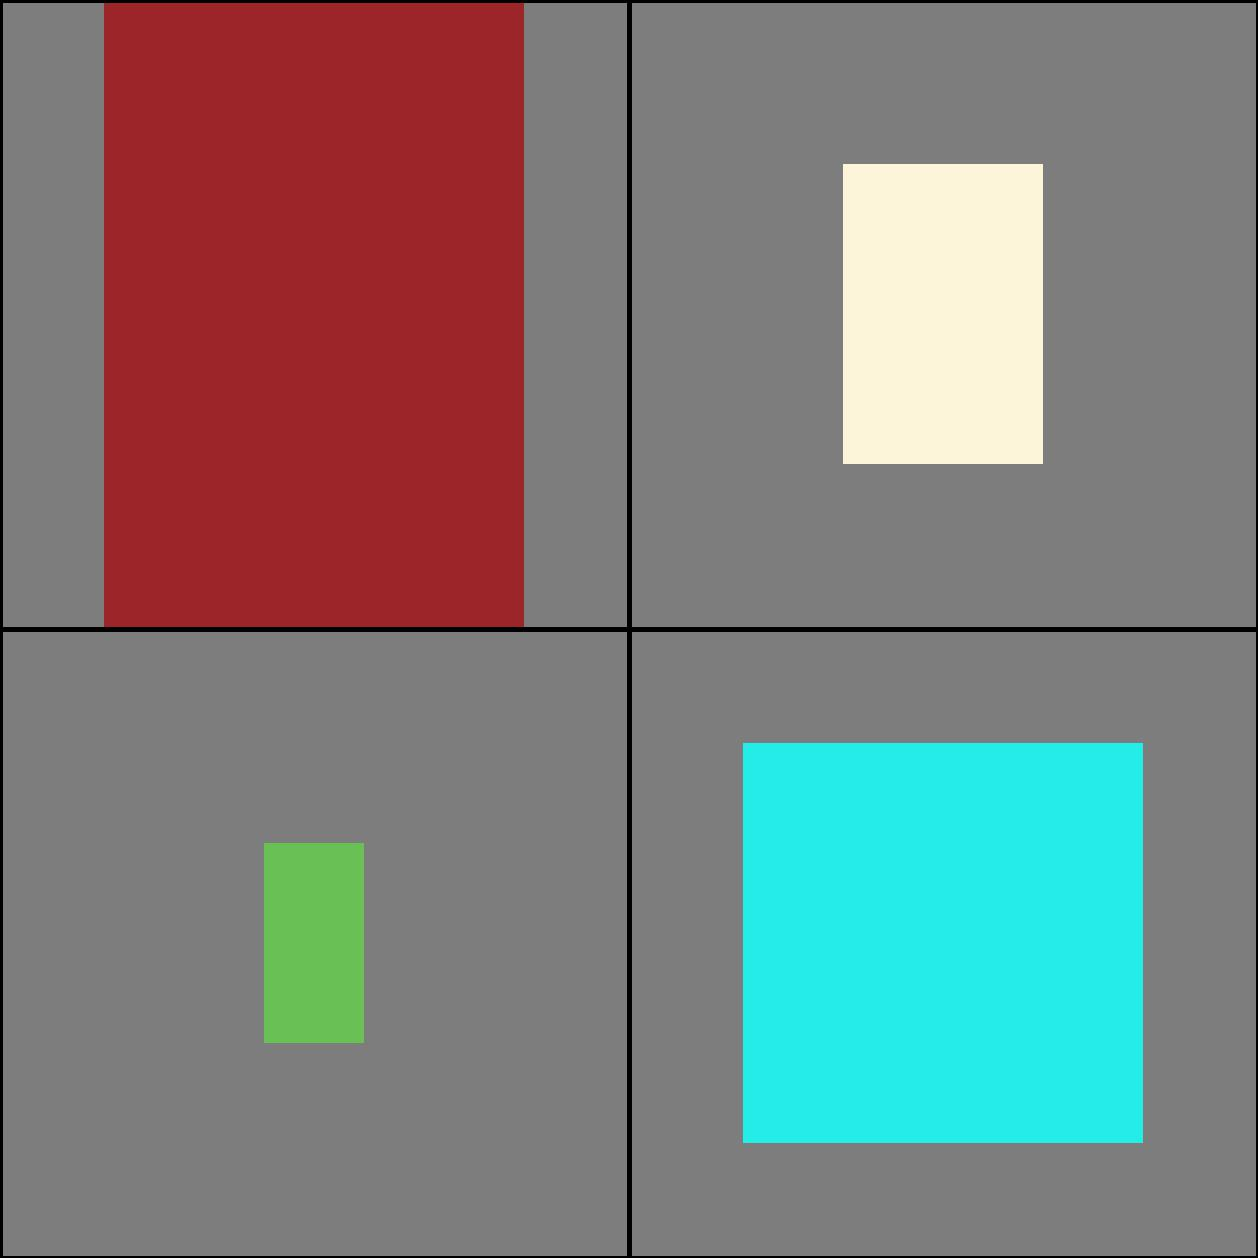
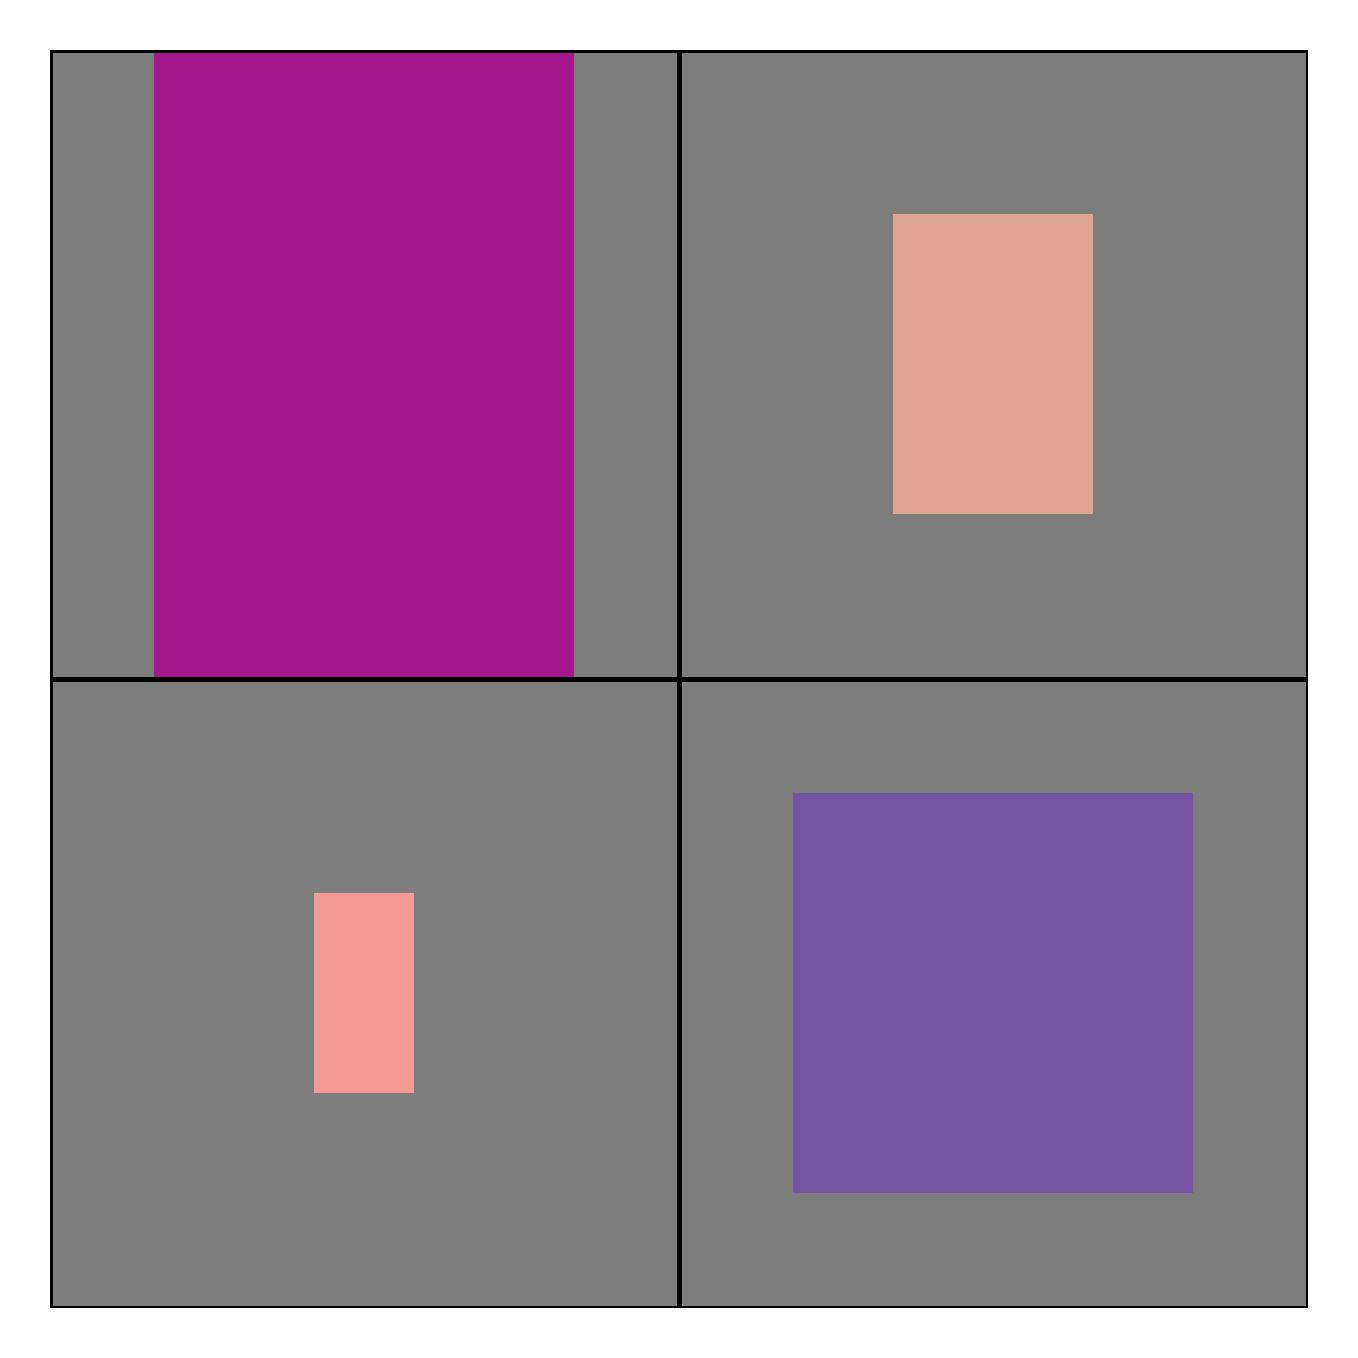
Add margins

diff --git a/app/image_grid.py b/app/image_grid.py
@@ -31,11 +31,13 @@ class ImageGrid:
         canvas_colour (string): Colour of the main canvas
         resize_image_canvas_colour (tuple): The background colour of the
             individual tile images that are resized.
+        margin: the overall margin on the final image
 
     """
 
     def __init__(
         self,
+        margin=0,
         custom_dimension_for_single_items=None,
         image_border_width=0,
         image_border_colour=(255, 255, 255),
@@ -50,6 +52,7 @@ class ImageGrid:
         **kwargs,
     ):
         self.canvas_colour = canvas_colour
+        self.margin = margin
         self.resize_image_canvas_colour = resize_image_canvas_colour
         self.image_directory = image_directory
         self.resized_image_directory = resized_image_directory
@@ -107,6 +110,21 @@ class ImageGrid:
                 width=self.image_border_width,
             )
             k += 1
-        self.canvas.save(
+
+        # Apply margin
+        frame = Image.new(
+            "RGB",
+            (self.canvas_size + self.margin, self.canvas_size + self.margin),
+            color=self.canvas_colour,
+        )
+        img_w, img_h = self.canvas.size
+        bg_w, bg_h = frame.size
+        offset = ((bg_w - img_w) // 2, (bg_h - img_h) // 2)
+
+        frame.paste(self.canvas, offset)
+        frame.save(
             f"{self.final_image_path}/{self.final_image_name}"
         )  # save the image.
+        # self.canvas.save(
+        #     f"{self.final_image_path}/{self.final_image_name}"
+        # )  # save the image.

diff --git a/example_runs.py b/example_runs.py
@@ -27,6 +27,7 @@ if __name__ == "__main__":
         resize_image_canvas_colour=(125, 125, 125),
         canvas_colour="white",
         final_image_name="4-images.jpg",
+        margin=100,
     )
     # resize all our images
     resized_images = image_grid.resize_images()
@@ -112,12 +113,13 @@ if __name__ == "__main__":
     # instantiation
     image_grid = ImageGrid(
         image_directory="images",
-        image_border_width=5,
+        image_border_width=10,
         individual_image_resize_offset=(2, 2),
-        image_border_colour=(0, 0, 0),
+        image_border_colour=(255, 255, 255),
         resize_image_canvas_colour=(125, 125, 125),
         canvas_colour="white",
         final_image_name="100-equal-images.jpg",
+        margin=20,
     )
     # resize all our images
     resized_images = image_grid.resize_images()

diff --git a/tests/test_image_grid.py b/tests/test_image_grid.py
@@ -10,6 +10,7 @@ def test_image_grid():
         final_image_path="tests/images",
         final_image_name="final_test_image.jpg",
         resized_image_directory="tests/images/resized_images",
+        canvas_colour="white",
     )
     # resize all our images
     resized_images = image_grid.resize_images()

diff --git a/README.md b/README.md
@@ -52,3 +52,5 @@ An image grid made up of 100 equal images
 TODOS
 
 - [ ] Fill mode (images zoomed in to fill area)
+- [ ] Testing images with numpy
+- [ ] Canvas margins
